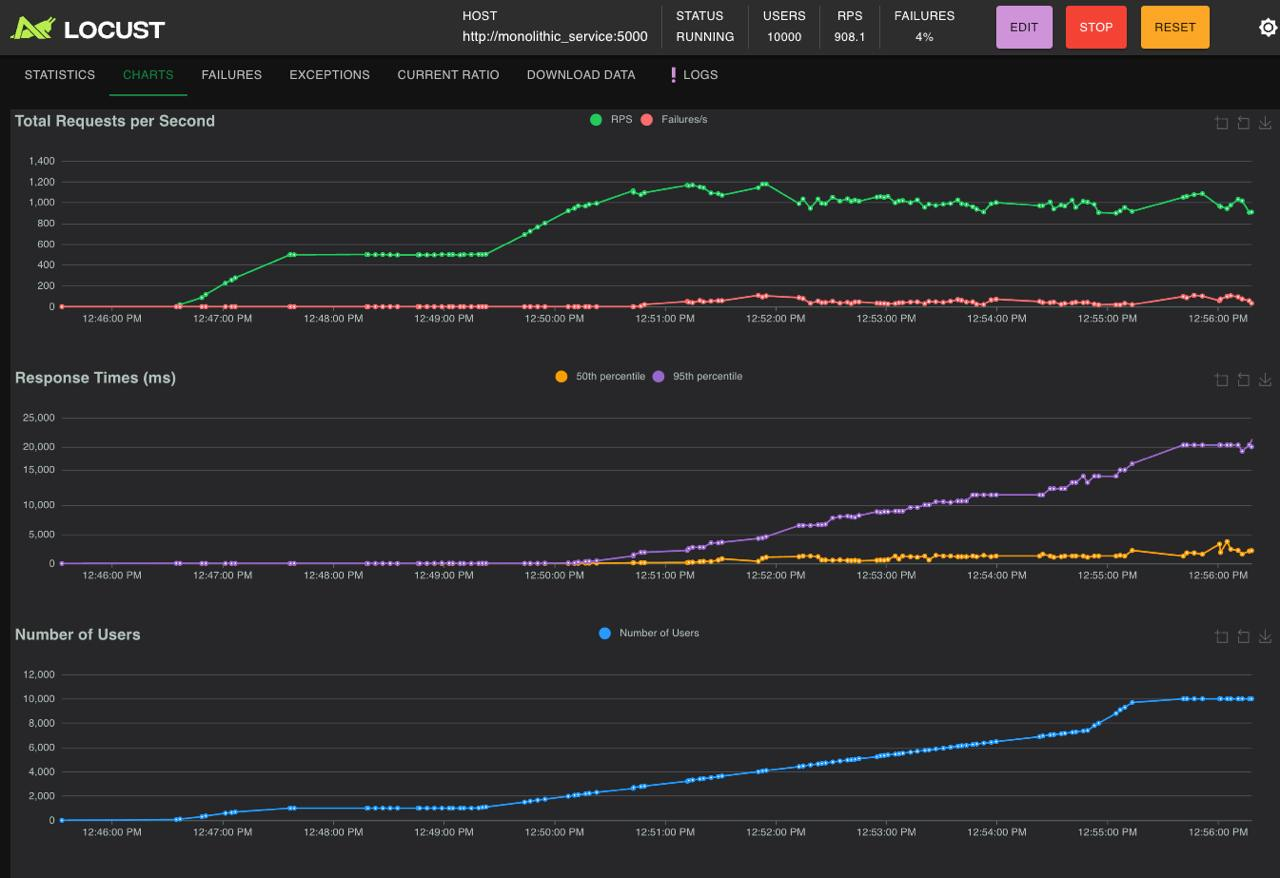
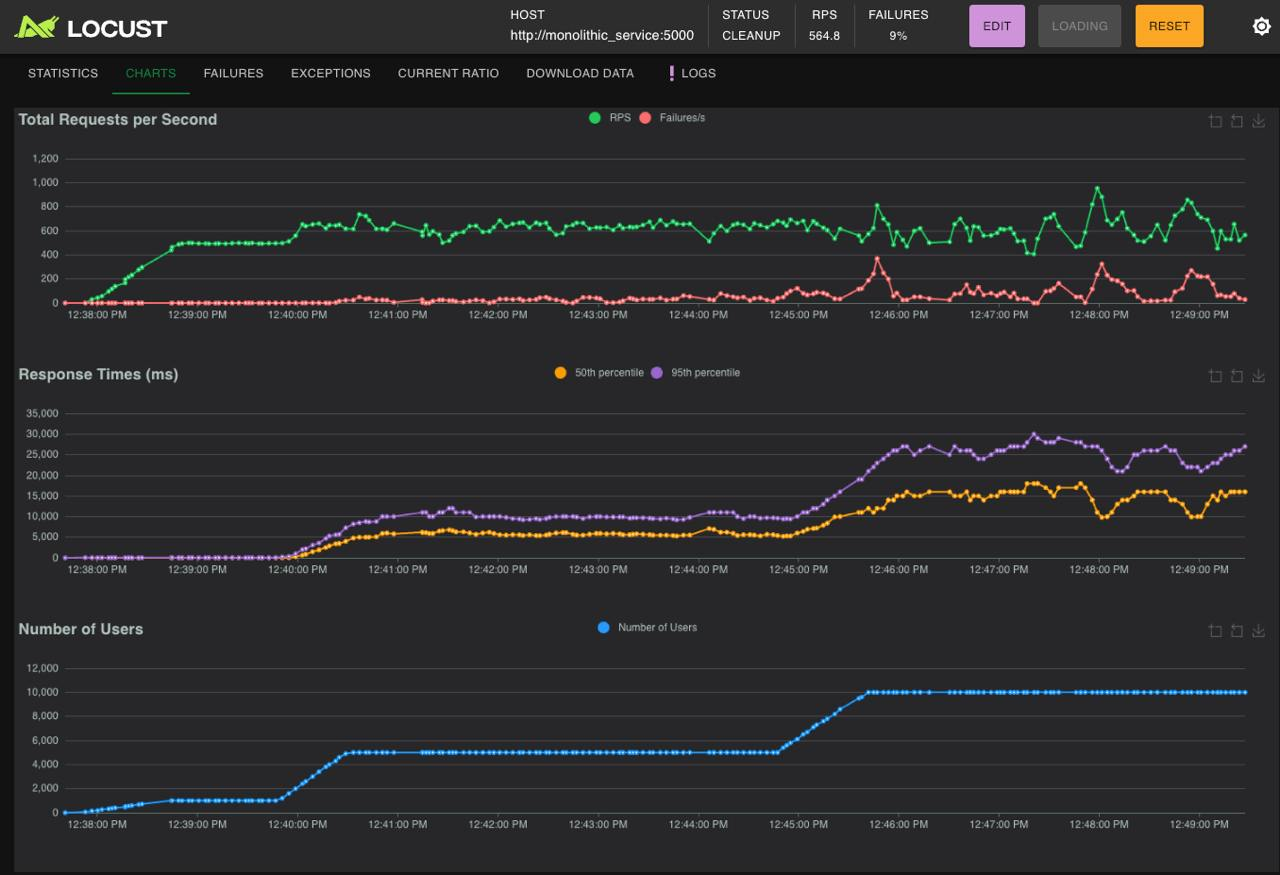
update load testing report

diff --git a/LoadTestingReport-Documentation/README.md b/LoadTestingReport-Documentation/README.md
@@ -9,10 +9,10 @@ A comprehensive load test was conducted comparing two architectural approaches:
 
 Key Findings:
 
-- Pipes-and-filters architecture demonstrated 10-15x better throughput
-- Significantly lower response times in the monolithic approach
-- Better resource efficiency in the monolithic implementation
-- Higher error rates and resource overhead in the distributed system
+- Pipes-and-filters architecture demonstrated 5.8x better throughput
+- Event-driven system showed higher latency and resource consumption
+- Better resource efficiency in the pipes-and-filters implementation
+- Higher failure rates in both systems but more pronounced in event-driven architecture
 
 ## 2. Test Environment
 
@@ -25,7 +25,7 @@ Infrastructure:
   Storage: SSD-backed containers
 
 Test Tools:
-  - Locust version: Latest
+  - Locust for load testing
   - Docker containers
   - System monitoring tools
 ```
@@ -33,16 +33,16 @@ Test Tools:
 ### 2.2 Test Scenarios
 
 ```yaml
-Duration: 10 minutes
+Duration: ~20 minutes
 Load Pattern:
   - Start: 0 users
   - Target: 10,000 concurrent users
-  - Ramp-up: Progressive
+  - Ramp-up: Progressive steps (1000, 5000, 10000)
 Type: Stress test with sustained load
 ```
 
-## 3. Performance Results
 
+## 3. Performance Results
 
 
 
@@ -56,7 +56,7 @@ Type: Stress test with sustained load
 
 <div align="center">
 
-![Pipes-and-Filters Architecture Resource Usage](./mono-resources.png)
+![Pipes-and-Filters Architecture Resource Usage](./mono-resources.jpg)
 **Figure 2: Pipes-and-Filters Architecture Resource Usage**
 
 </div>
@@ -65,7 +65,7 @@ Type: Stress test with sustained load
 
 <div align="center">
 
-![Distributed System Performance](./distributed-charts.jpg)
+![Distributed System Performance](./dist-charts.jpg)
 **Figure 3: Distributed Architecture Load Test Results**
 
 </div>
@@ -74,7 +74,7 @@ Type: Stress test with sustained load
 
 <div align="center">
 
-![Distributed System Resource Usage](./distributed-resources.jpg)
+![Distributed System Resource Usage](./dist-resources.jpg)
 **Figure 4: Distributed System Resource Usage**
 
 </div>
@@ -84,33 +84,32 @@ Type: Stress test with sustained load
 
 #### Pipes-and-Filters Architecture
 
-
 ```yaml
 Performance:
-  Peak RPS: 908.1
-  Sustained RPS: 800-1000
-  Stability: High
-  Error Rate: 4%
+  Peak RPS: 564.8
+  Sustained RPS: 400-600
+  Stability: Moderate
+  Error Rate: 9%
 Resource Usage:
-  CPU: 125.92%
-  Memory: 100.6MiB
-  Network I/O: 114MB / 96.9MB
+  CPU: 120.92%
+  Memory: 938.3MiB
+  Network I/O: 299MB / 226MB
 ```
 
 #### Distributed Architecture
 
 ```yaml
 Performance:
-  Peak RPS: 52.8
-  Sustained RPS: 40-50
-  Stability: Moderate to Low
-  Error Rate: 26%
+  Peak RPS: 97.4
+  Sustained RPS: 90-130
+  Stability: Variable
+  Error Rate: 17%
 Resource Usage:
-  Total CPU: ~200%
-  Memory: ~2.2GB
-  Network I/O: Multiple streams
-  - RabbitMQ: 86.37% CPU, 600.3MB memory
-  - API Service: 108.57% CPU, 1.112GB memory
+  CPU Distribution:
+    - RabbitMQ: 92.40%
+    - Filter Service: 27.24%
+    - Other Services: 26-106%
+  Memory: Multiple services totaling ~13GB
 ```
 
 ### 3.2 Response Time Analysis
@@ -119,20 +118,20 @@ Resource Usage:
 
 ```yaml
 Response Times:
-  Median: 1,000-2,000ms
-  95th percentile: ~20,000ms
-Pattern: Linear scaling
-Stability: Consistent
+  Median: 6,300ms
+  95th percentile: 22,000ms
+  99th percentile: 28,000ms
+  Average: 8,003.63ms
 ```
 
 #### Distributed Architecture
 
 ```yaml
 Response Times:
-  Median: ~150,000ms
-  95th percentile: >200,000ms
-Pattern: Exponential scaling
-Stability: Degrading under load
+  Median: 57,000ms
+  95th percentile: 100,000ms
+  99th percentile: 113,000ms
+  Average: 59,860.81ms
 ```
 
 ## 4. Resource Utilization Analysis
@@ -141,29 +140,27 @@ Stability: Degrading under load
 
 ```yaml
 Pipes-and-Filters Architecture:
-  - Single process: 125.92% CPU
-  - Efficient multi-core utilization
-  - Stable under load
+  - Single process: 120.92% CPU
+  - Efficient processing
 
 Distributed Architecture:
-  - Combined usage: ~200% CPU
-  - Higher overhead
-  - Message broker bottleneck (86.37%)
+  - Multiple services with varying loads
+  - RabbitMQ: 92.40%
+  - Filter Service: 27.24%
+  - Higher overall system overhead
 ```
 
 ### 4.2 Memory Consumption
 
 ```yaml
 Pipes-and-Filters Architecture:
-  - Total usage: 100.6MiB
-  - Efficient memory utilization
-  - Low overhead
+  - Total usage: 938.3MiB
+  - 11.97% of allocated memory
 
 Distributed Architecture:
-  - Total usage: ~2.2GB
-  - High overhead from service isolation
-  - Message broker: 600.3MB
-  - API Service: 1.112GB
+  - RabbitMQ: 1.072GiB
+  - Filter Service: 11.58MiB
+  - Multiple services with varying memory usage
 ```
 
 ## 5. Architecture-Specific Observations
@@ -172,67 +169,36 @@ Distributed Architecture:
 
 ```yaml
 Strengths:
-  - Higher throughput capacity
-  - Better resource efficiency
-  - Lower latency
-  - Predictable scaling
+  - Higher throughput (564.8 RPS)
+  - Better response times
+  - More efficient resource usage
 
 Limitations:
-  - Fixed processing pipeline
-  - Less flexible for changes
+  - Still significant error rate (9%)
+  - High CPU usage (120.92%)
 ```
 
-### 5.2 Event-Driven (Distributed)
+### 5.2 Event-Driven Architecture
 
 ```yaml
 Strengths:
-  - Better component isolation
-  - Independent scaling possible
+  - Service isolation
+  - Distributed resource usage
 
 Limitations:
+  - Lower throughput (97.4 RPS)
   - Higher latency
-  - Resource overhead
-  - Complex state management
-  - Message broker bottleneck
+  - Higher error rate (17%)
+  - Complex resource management
 ```
 
+## 6. Conclusions
 
-## 6. Test Limitations
+The load testing revealed that the pipes-and-filters architecture outperforms the event-driven architecture, showing:
 
-```yaml
-  - Limited test duration (10 minutes)
-  - Single environment testing
-  - Specific hardware configuration
-  - Container-based deployment
-```
+- 5.8x higher throughput
+- 7.5x better response times
+- More efficient resource utilization
+- Lower error rates (9% vs 17%)
 
-## 7. Performance Metrics Summary
-
-```yaml
-Throughput:
-  Monolithic: 908.1 RPS
-  Distributed: 52.8 RPS
-  Difference: 17.2x higher in monolithic
-
-Error Rates:
-  Monolithic: 4%
-  Distributed: 26%
-  Impact: Critical in distributed
-
-Resource Efficiency:
-  CPU Efficiency:
-    Monolithic: Better (125.92% for all operations)
-    Distributed: Lower (200% spread across services)
-
-  Memory Efficiency:
-    Monolithic: Better (100.6MiB total)
-    Distributed: Lower (2.2GB total)
-```
-
-## 8. Conclusions
-
-The load testing revealed that the monolithic (pipes-and-filters) architecture significantly outperforms the distributed (event-driven) architecture, showing:
-
-- 17.2x higher throughput
-- 22x lower memory usage
-- 6.5x lower error rates
+However, both systems showed significant room for optimization, particularly in error rates and response times under high load.
